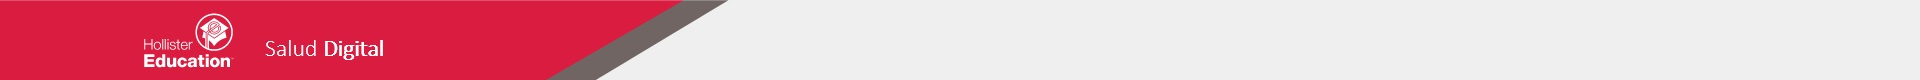
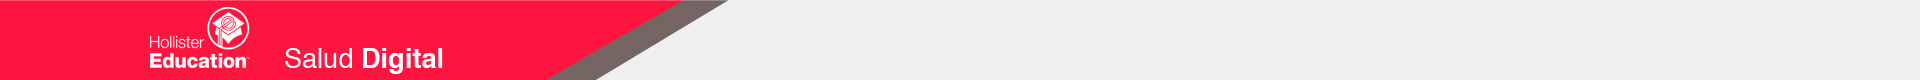
AJUSTES_HOME

diff --git a/src/assets/scss/stylebasiclevel.scss b/src/assets/scss/stylebasiclevel.scss
@@ -1009,7 +1009,7 @@ div.container-collaborators{
       height: auto;
     }
   }
-
+}
 .content-title h3, h2{
   line-height: 40px;
 }
@@ -1044,6 +1044,7 @@ div.container-collaborators{
 }
 .margen-cuadro-texto {
   margin-left: 10vw !important;
+  margin-top: 0px !important;
 }
 .btn-line {
   margin-top: -17px;
@@ -1148,18 +1149,18 @@ div.container-collaborators{
   font-size: smaller !important;
   color: #da1c40  !important;
 }
-.divtitulos{
+.divtitulos {
   margin-left: 13%;
   margin-top: -30px;
 }
-.titletit{
+.titletit {
   font-size: xxx-large;
   margin-bottom: 10px;
 }
-.stitletit{
+.stitletit {
   font-size: xx-large;
 }
-.color-red-tema{
+.color-red-tema {
   color: #da1c40 !important;
 }
 .seccion-foto-info-lg {
@@ -1167,6 +1168,32 @@ div.container-collaborators{
 }
 .ffoto {
   position: absolute;
-    right: 34%;
-    bottom: 11%;
+  right: 34%;
+  bottom: 11%;
+}
+.title-banner {
+  margin-top: 60px;
+}
+.margin-left-title h2{
+  font-size: 80px;
+  color: #fff;
+  margin-left: 25px !important;
+  margin-top: 60px;
+}
+@media (prefers-reduced-motion: reduce) {
+  .titanimate {
+    display: inline-block;
+    margin: 0 0.5rem;
+
+    animation: bounce; /* referring directly to the animation's @keyframe declaration */
+    animation-duration: 2s;
+    
+    /* Provide alternate styling */
+    // background-color: #47ACFA;
+    // border: none;
+    // border-radius: 0;
+    // box-shadow: none;
+    // height: 30vh;
+    // width: 30vh;
+  }
 }

diff --git a/src/components/BannerSaludDigital.js b/src/components/BannerSaludDigital.js
@@ -11,10 +11,10 @@ const BannerSaludDigital = () => {
         <div className="container-banner">
           <div className="row">
             <div className="col-12">
-              <img src={logoPortada} className="logo-banner" />
+              <img src={logoPortada} className="logo-banner animate__animated animate__fadeInDownBig"/>
             </div>
-            <div className="col-12 title-banner">
-              <h2><strong>Salud </strong>Digital</h2>
+            <div className="col-12 margin-left-title">
+              <h2 className="titanimate"><strong>Salud </strong>Digital</h2>
             </div>
           </div>
         </div>

diff --git a/src/pages/collaborators.js b/src/pages/collaborators.js
@@ -4,6 +4,7 @@ import Layout from "../components/layout";
 import Img01 from "../images/collaborators/logo-ASD.png";
 import Img02 from "../images/collaborators/Logo-huci.png";
 import Img03 from "../images/collaborators/Logo-Salusplay.png";
+import FooterNavigation from "../components/FooterNavigation";
 
 const Collaborators = (props) => (
   <Layout>
@@ -39,6 +40,7 @@ const Collaborators = (props) => (
         </div>
       </div>
     </div>
+    <FooterNavigation left={"/sabias-que"} right={"/levels"} />
   </Layout>
 );
 

diff --git a/src/pages/levels.js b/src/pages/levels.js
@@ -6,7 +6,7 @@ import Img02 from "../images/levels/img02.png";
 import Img03 from "../images/levels/img03.png";
 import Img04 from "../images/levels/img04.png";
 import Header from "../images/levels/header.png";
-
+import FooterNavigation from "../components/FooterNavigation";
 
 const Levels = (props) => (
   <Layout>
@@ -41,6 +41,7 @@ const Levels = (props) => (
         </div>
       </div>
     </div>
+    <FooterNavigation left={"/collaborators"} right={"/basic-facetoface"} />
   </Layout>
 );
 

diff --git a/src/components/Header.js b/src/components/Header.js
@@ -97,7 +97,7 @@ class Header extends React.Component {
         <header id="header">
           <div className={`navbar-menu ${this.state.mobileActiveClass}`}>
             <nav>
-              <ul style={{ display: "flex", flex: 1 }}>
+              <ul style={{ display: "flex", flex: 1 , marginTop: "5px",marginRight: "80px", fontSize: "25px"}}>
                 {menuLinks.map((link) =>
                   link.items ? (
                     <React.Fragment key={link.name}>

diff --git a/src/pages/basic-facetoface.js b/src/pages/basic-facetoface.js
@@ -60,7 +60,7 @@ const BasicFaceToFace = (props) => (
         </div>
       </div>
     </div>
-    <FooterNavigation left={"/sabias-que"} right={"/basic-scholarships"} />
+    <FooterNavigation left={"/levels"} right={"/basic-scholarships"} />
   </Layout>
 );
 

diff --git a/src/pages/sabias-que.js b/src/pages/sabias-que.js
@@ -71,7 +71,7 @@ const SabiasQue = (props) => {
           </div>
         </div>
       </div>
-      <FooterNavigation left={"/dos"} right={"/basic-facetoface"} />
+      <FooterNavigation left={"/dos"} right={"/collaborators"} />
     </Layout>
   );
 };

diff --git a/gatsby-config.js b/gatsby-config.js
@@ -11,7 +11,7 @@ module.exports = {
       },
       {
         name: "Programas",
-        link: "/",
+        link: "/levels",
       },
       {
         name: "Documentación",
